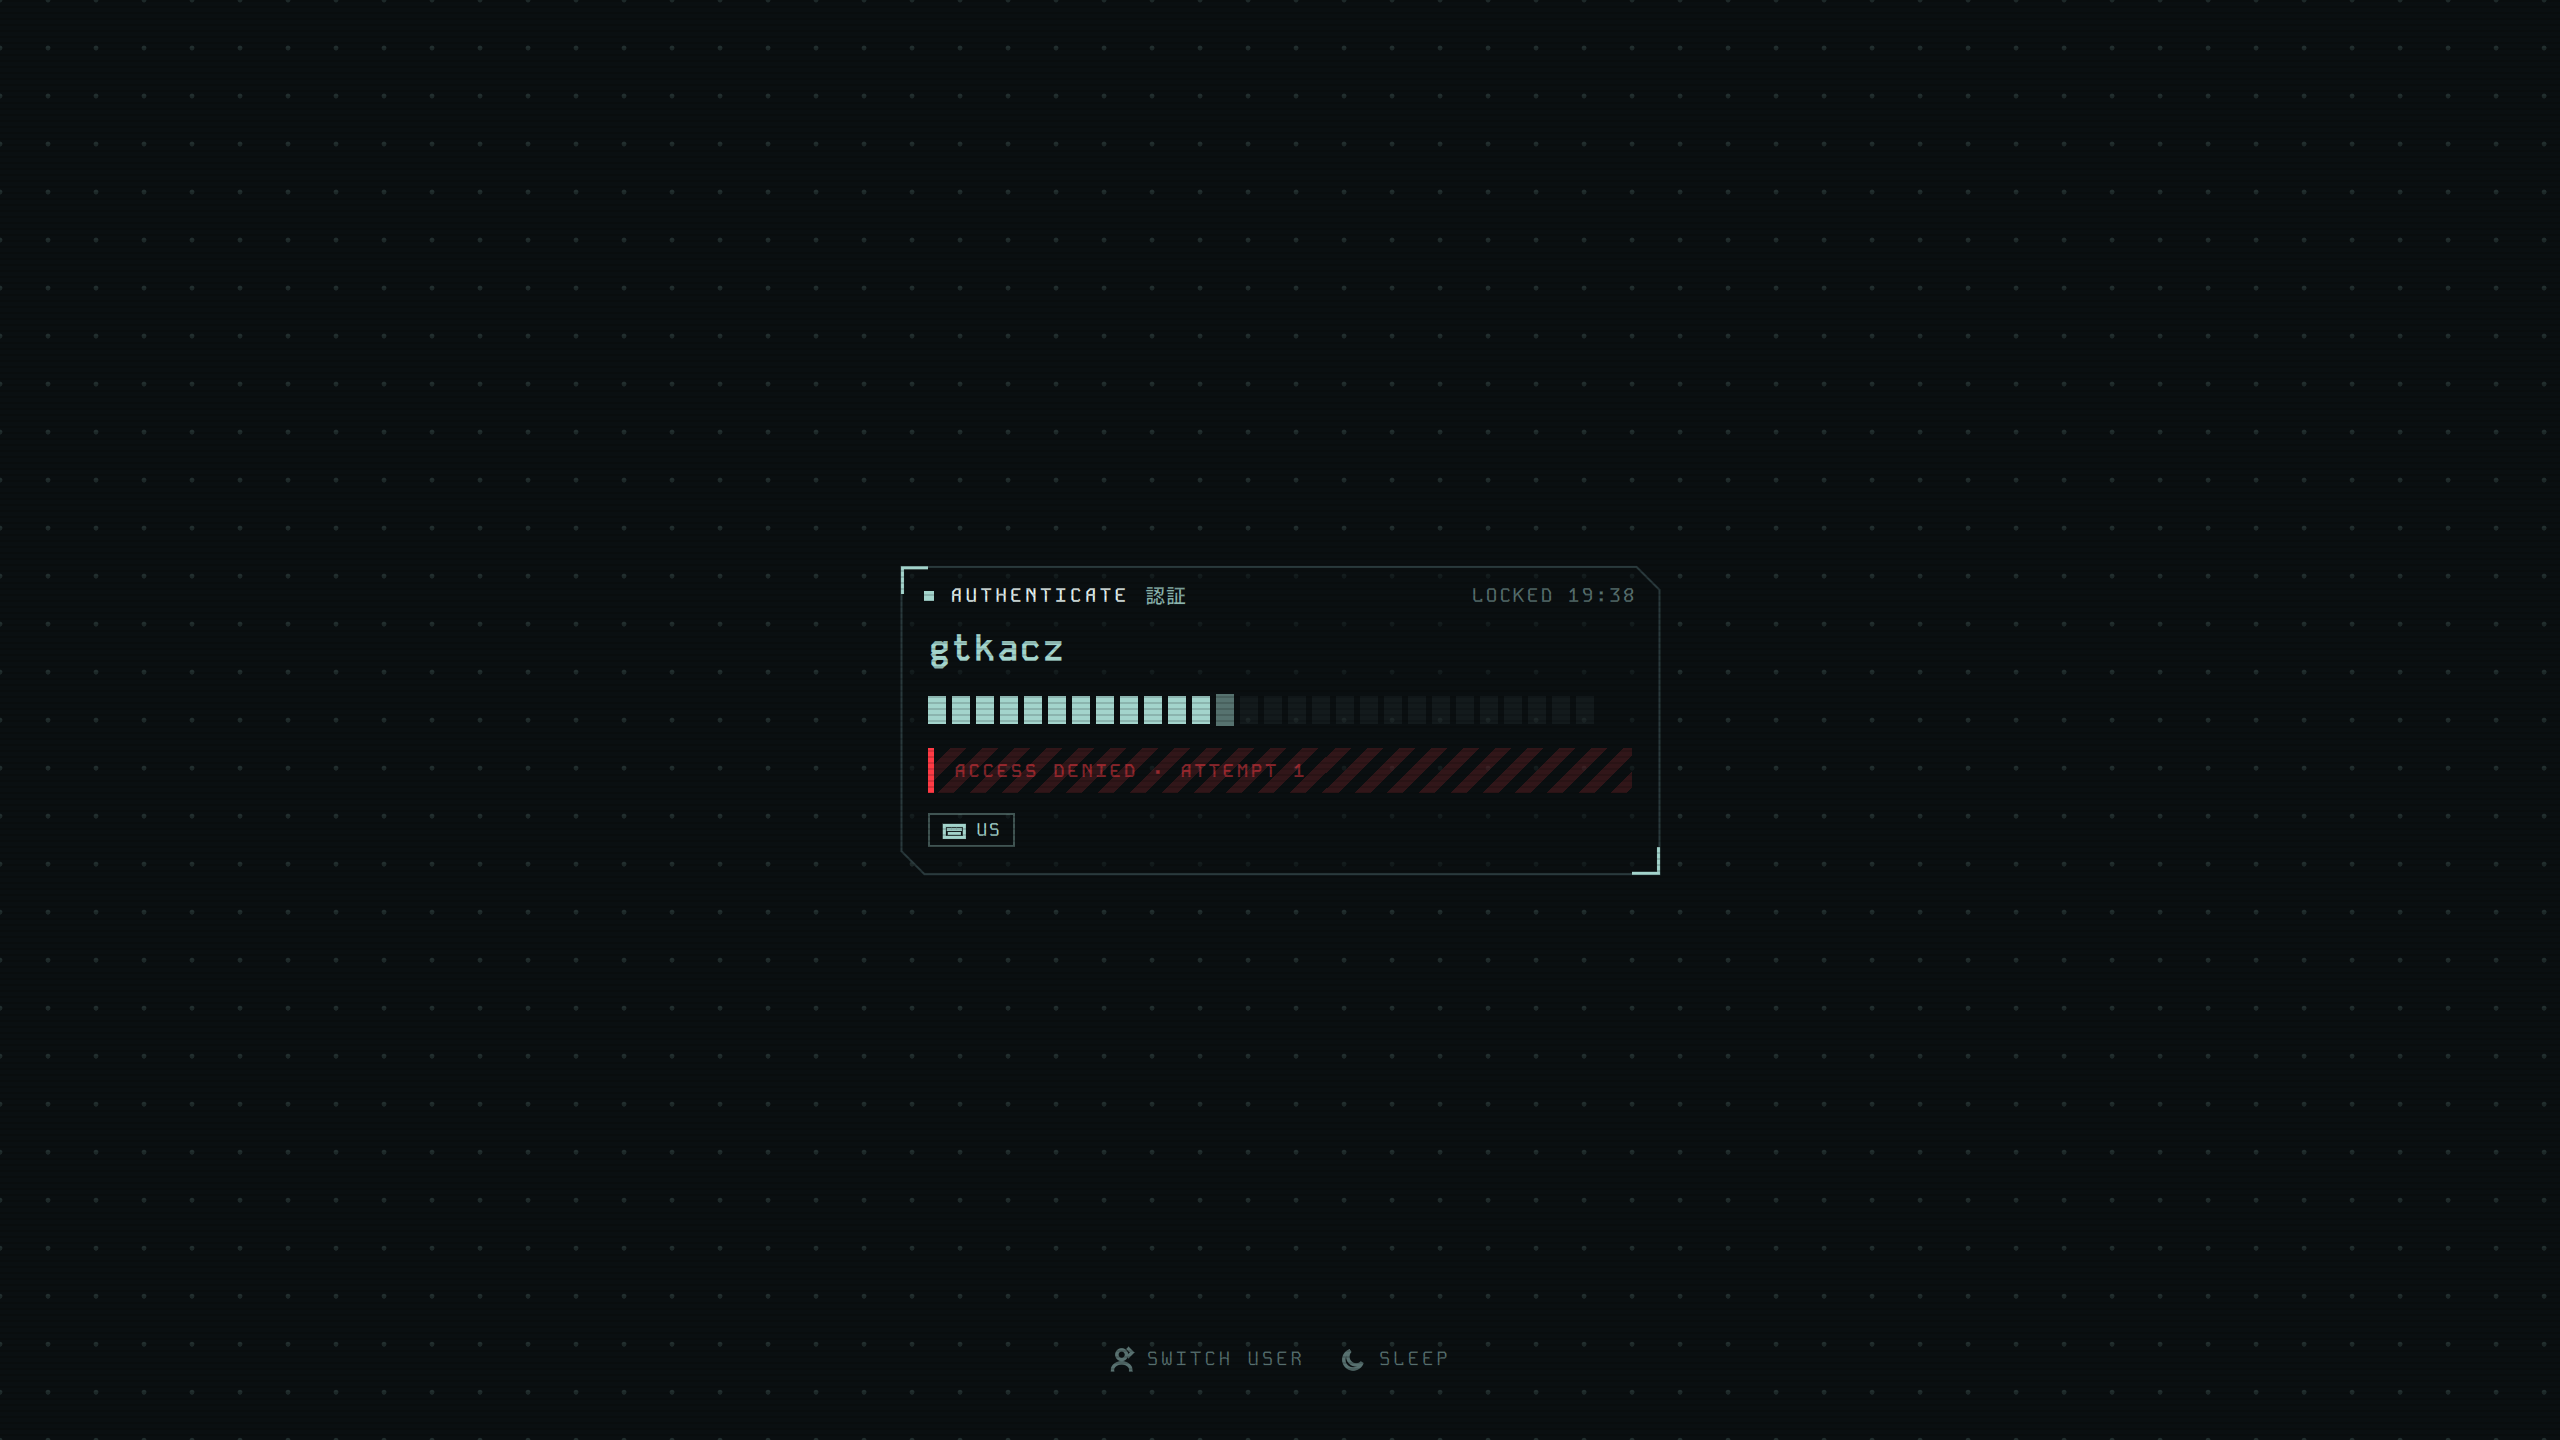
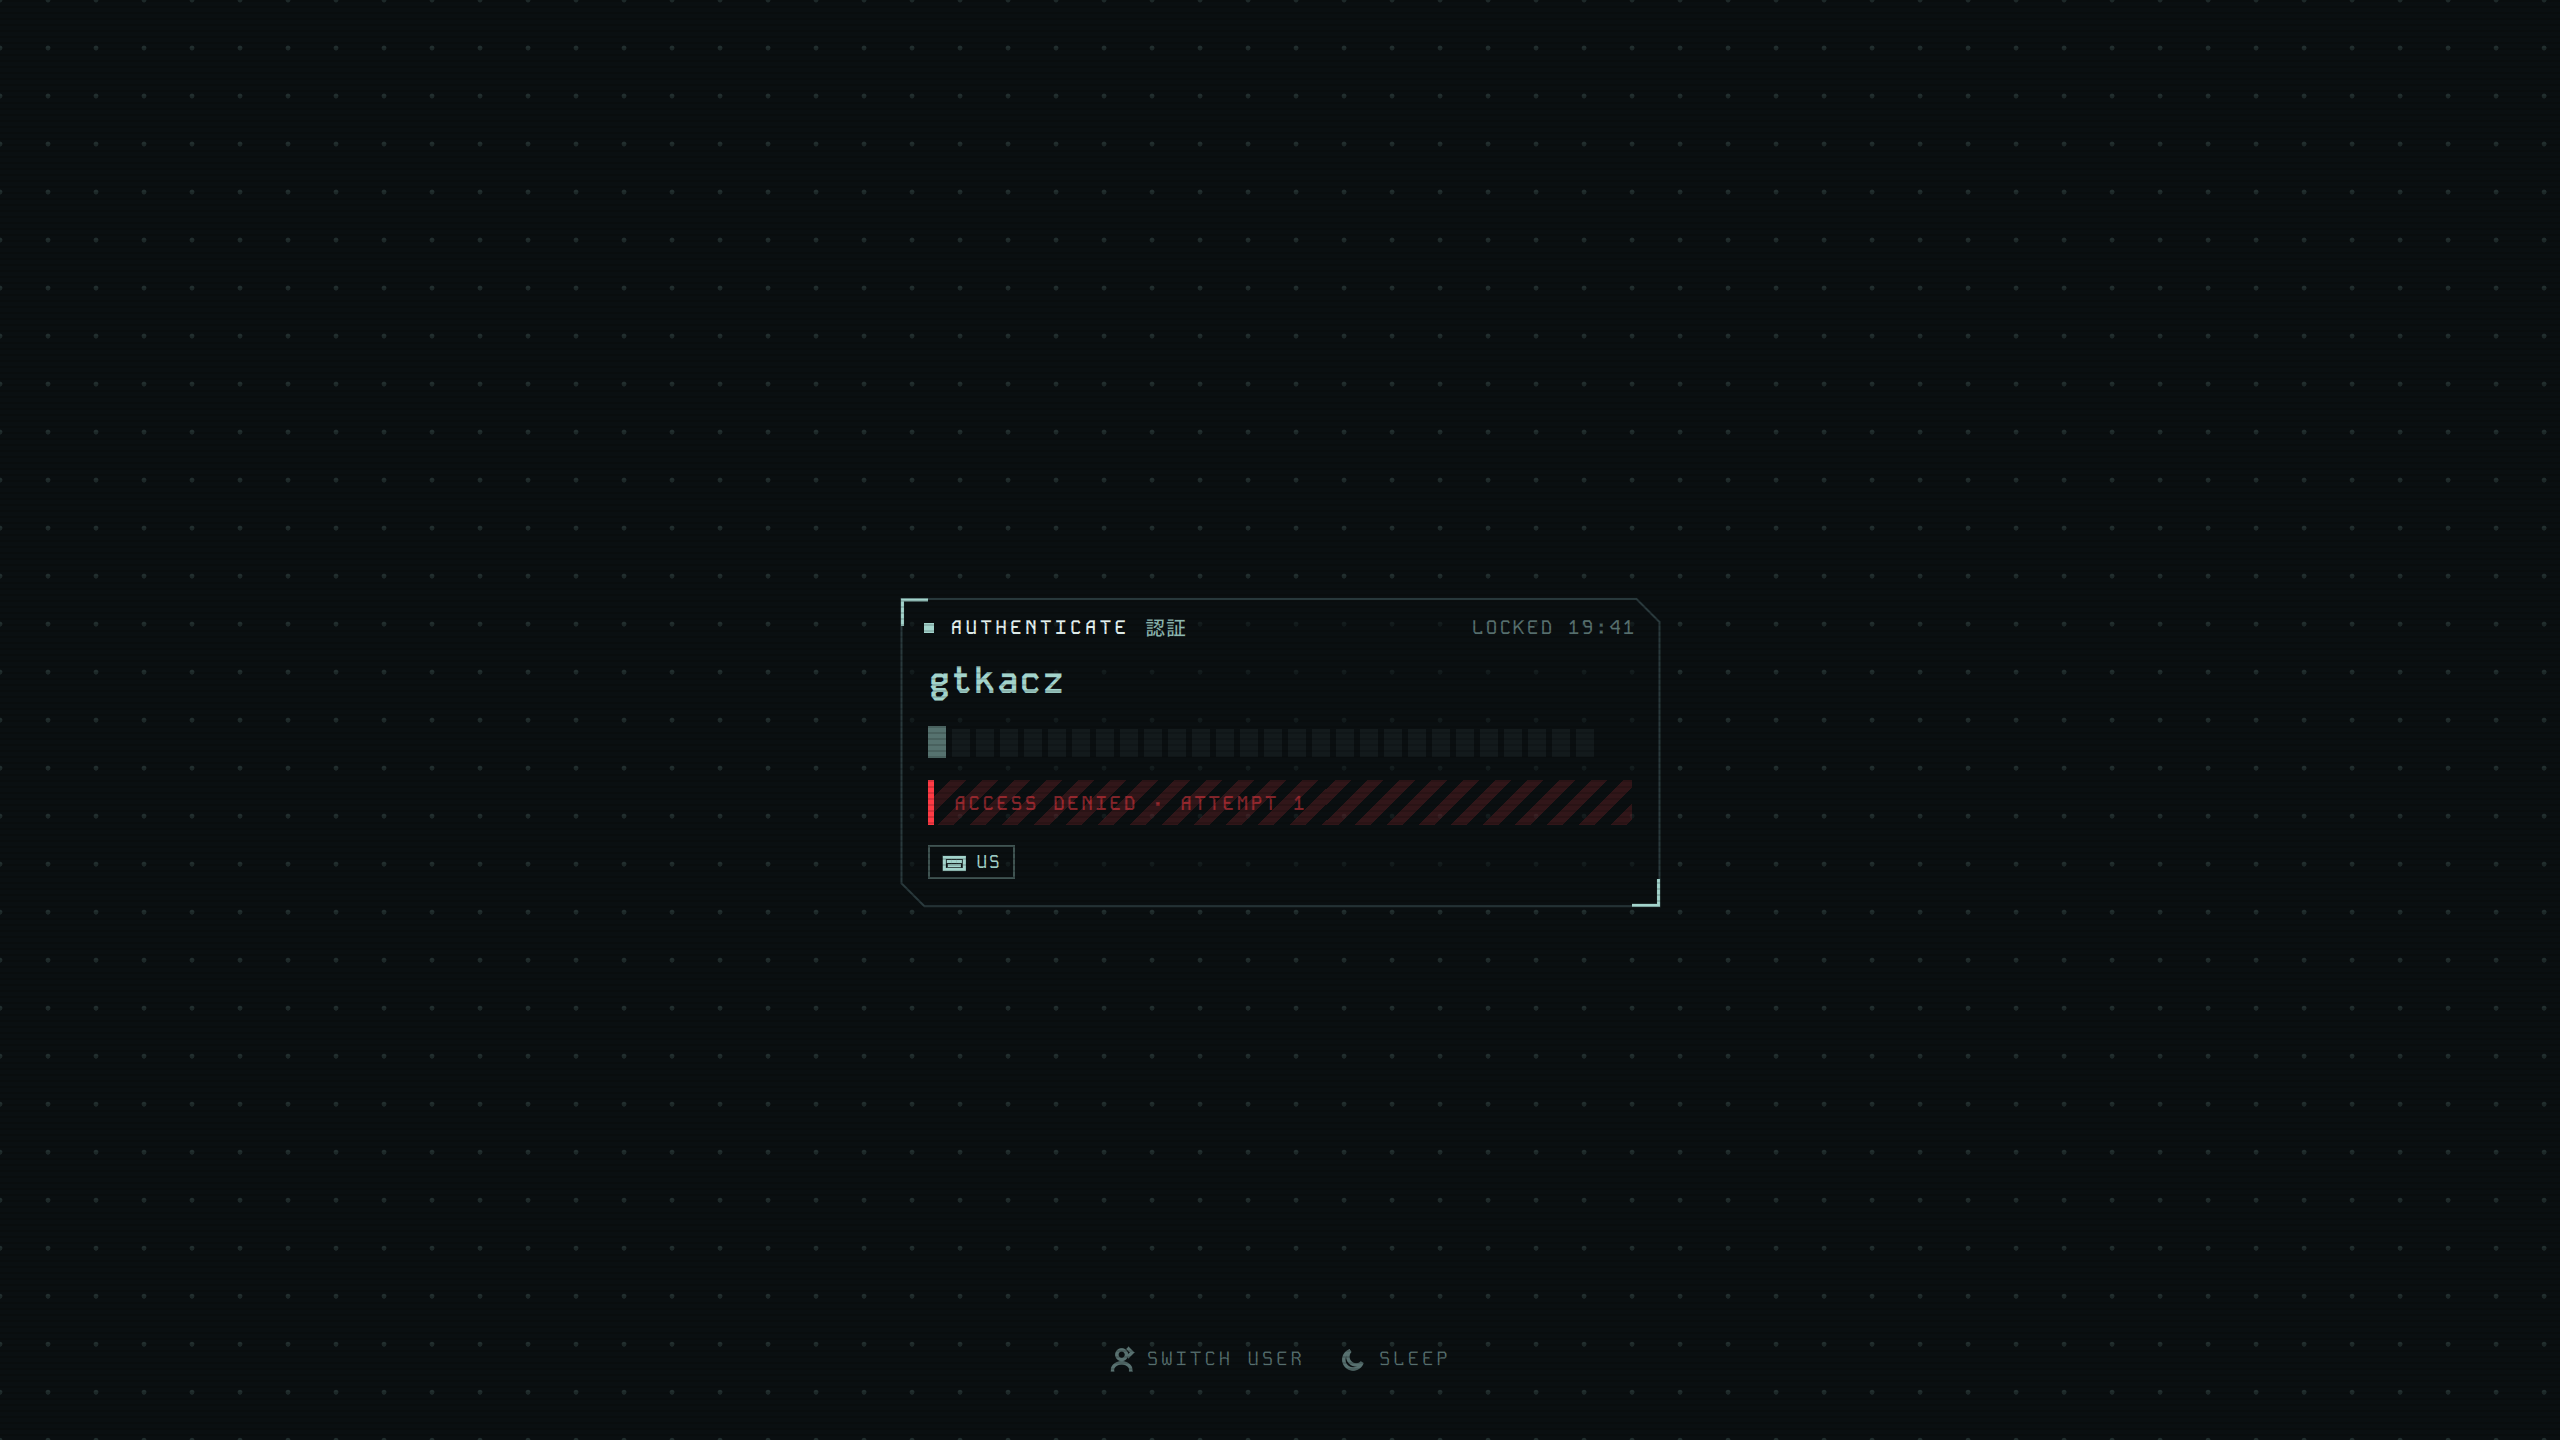
fix(gate): keep the pass uncut, the panel still on failure and the cells lit while busy

Changed region(s): [[0.3438, 0.4062, 0.6562, 0.625], [0.5625, 0.4062, 0.6562, 0.4375]]

diff --git a/shell/gate/tests/tst_prompt.qml b/shell/gate/tests/tst_prompt.qml
@@ -109,10 +109,53 @@ TestCase {
         type("abc");
         keyClick(Qt.Key_Return);
         compare(screen.adapter.submitCount, 1);
+        compare(password.lit, 3);
+        verify(!password.cursorShown);
         type("xyz");
+        keyClick(Qt.Key_Escape);
         keyClick(Qt.Key_Return);
-        compare(password.lit, 0);
+        compare(password.lit, 3);
         compare(screen.adapter.submitCount, 1);
+    }
+
+    function test_full_row_keeps_cursor_off_the_last_cell() {
+        const password = find(makeScreen(), "password");
+        type("abc");
+        verify(password.cursorShown);
+        type("a".repeat(40));
+        compare(password.lit, 28);
+        verify(!password.cursorShown);
+    }
+
+    function test_alert_leaves_everything_above_it_in_place() {
+        const screen = makeScreen();
+        const password = find(screen, "password");
+        const user = find(screen, "userName");
+        const before = [password.mapToItem(null, 0, 0).y, user.mapToItem(null, 0, 0).y];
+        type("nope");
+        keyClick(Qt.Key_Return);
+        verify(find(screen, "alert").visible);
+        waitForRendering(screen);
+        compare(password.mapToItem(null, 0, 0).y, before[0]);
+        compare(user.mapToItem(null, 0, 0).y, before[1]);
+    }
+
+    function test_tag_after_the_name_is_host_when_locked_and_session_at_login() {
+        Theme.load(GateLib.parseSnapshot({ gate: { host: "ghost-shell" } }));
+        const screen = makeScreen();
+        verify(texts(screen).includes("ghost-shell"));
+        screen.adapter.mode = "login";
+        verify(!texts(screen).includes("ghost-shell"));
+        verify(texts(screen).includes("Plasma · Wayland"));
+    }
+
+    function test_secondary_screen_never_reports_done() {
+        const screen = makeScreen();
+        const other = createTemporaryObject(screenComponent, test, { primary: false, adapter: screen.adapter });
+        doneSpy.target = other;
+        screen.adapter.succeeded();
+        wait(1200);
+        compare(doneSpy.count, 0);
     }
 
     function test_empty_enter_does_nothing() {

diff --git a/shell/gate/GhostGate/Password.qml b/shell/gate/GhostGate/Password.qml
@@ -20,10 +20,16 @@ Item {
     readonly property var gauge: GateLib.cells(length)
     readonly property int lit: gauge.lit
     readonly property int cursor: gauge.cursor
+    // A full row keeps every cell lit, so the blinking cursor must not stand in for the last one.
+    readonly property bool cursorShown: !busy && length < GateLib.CELLS
 
     property int blinkStep: 0
 
     signal submitted(string password)
+
+    function clear() {
+        input.text = "";
+    }
 
     function focusField() {
         input.forceActiveFocus();
@@ -47,13 +53,11 @@ Item {
             if (root.busy || text === "") {
                 return;
             }
-            const password = text;
-            text = "";
-            root.submitted(password);
+            root.submitted(text);
         }
         Keys.onEscapePressed: {
             if (!root.busy) {
-                text = "";
+                root.clear();
             }
         }
     }
@@ -68,7 +72,7 @@ Item {
                 id: cell
 
                 required property int index
-                readonly property bool isCursor: index === root.cursor && !root.busy
+                readonly property bool isCursor: index === root.cursor && root.cursorShown
 
                 width: Theme.d(root.cellWidthPx)
                 height: Theme.d(root.rowHeightPx)

diff --git a/shell/gate/GhostGate/Prompt.qml b/shell/gate/GhostGate/Prompt.qml
@@ -44,7 +44,12 @@ Item {
         target: root.adapter
 
         function onFailed() {
+            password.clear();
             root.raiseAlert();
+        }
+
+        function onSucceeded() {
+            password.clear();
         }
 
         function onMessageChanged() {
@@ -64,7 +69,11 @@ Item {
     Panel {
         id: panel
 
-        anchors.centerIn: parent
+        // Centred as if the alert were absent, so it grows the panel downward and nothing above it moves (spec 6.2).
+        readonly property real idleHeight: height - (alert.visible ? alert.implicitHeight + body.spacing : 0)
+
+        anchors.horizontalCenter: parent.horizontalCenter
+        y: (parent.height - idleHeight) / 2
         width: Theme.d(root.panelWidthPx)
         height: Theme.d(headerHeightPx + bodyTopPx) + padding + body.implicitHeight
         padding: Theme.d(root.panelPaddingPx)

diff --git a/shell/gate/GhostGate/GateScreen.qml b/shell/gate/GhostGate/GateScreen.qml
@@ -78,11 +78,13 @@ Item {
     Connections {
         target: root.adapter
 
+        // Only the primary screen reports done, so a host that exits on the first one cannot cut the pass short.
         function onSucceeded() {
-            if (root.primary) {
-                console.info("gate: succeeded");
+            if (!root.primary) {
+                return;
             }
-            if (root.primary && root.adapter.mode === "lock") {
+            console.info("gate: succeeded");
+            if (root.adapter.mode === "lock") {
                 scan.start();
             } else {
                 root.done();
